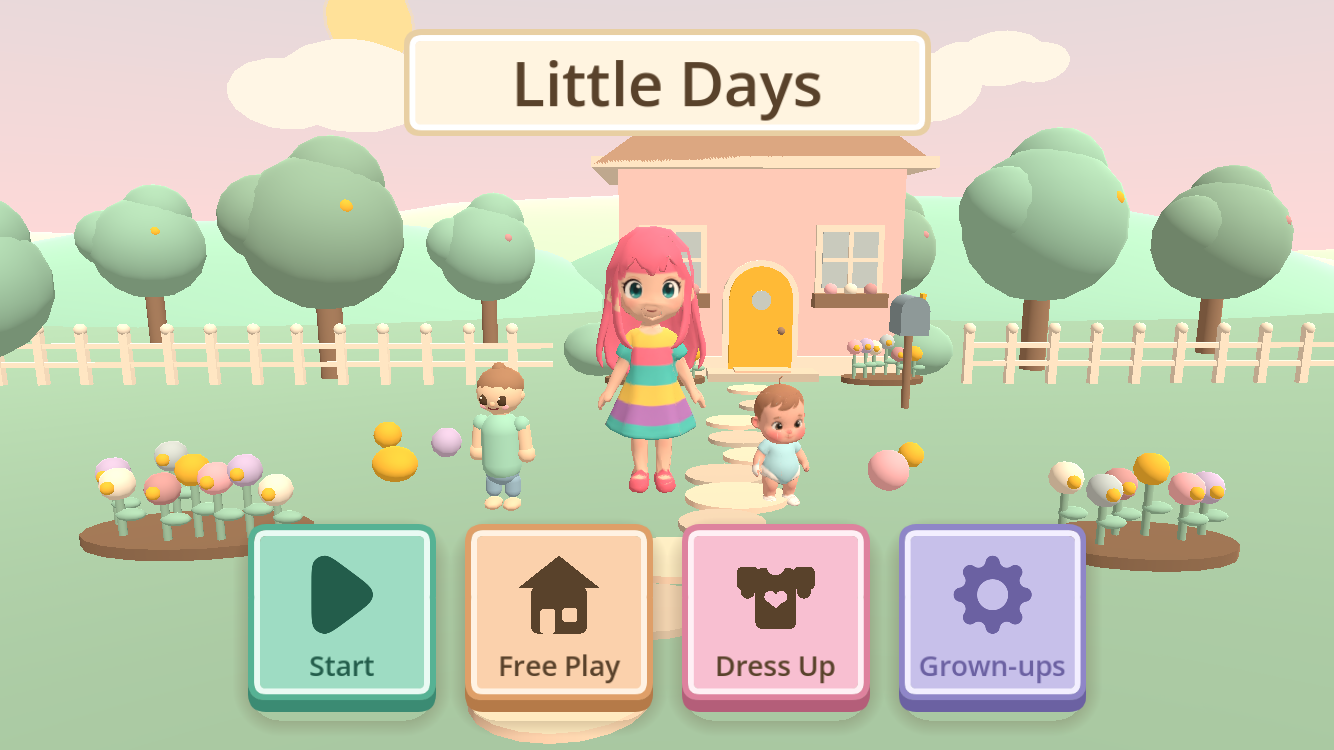
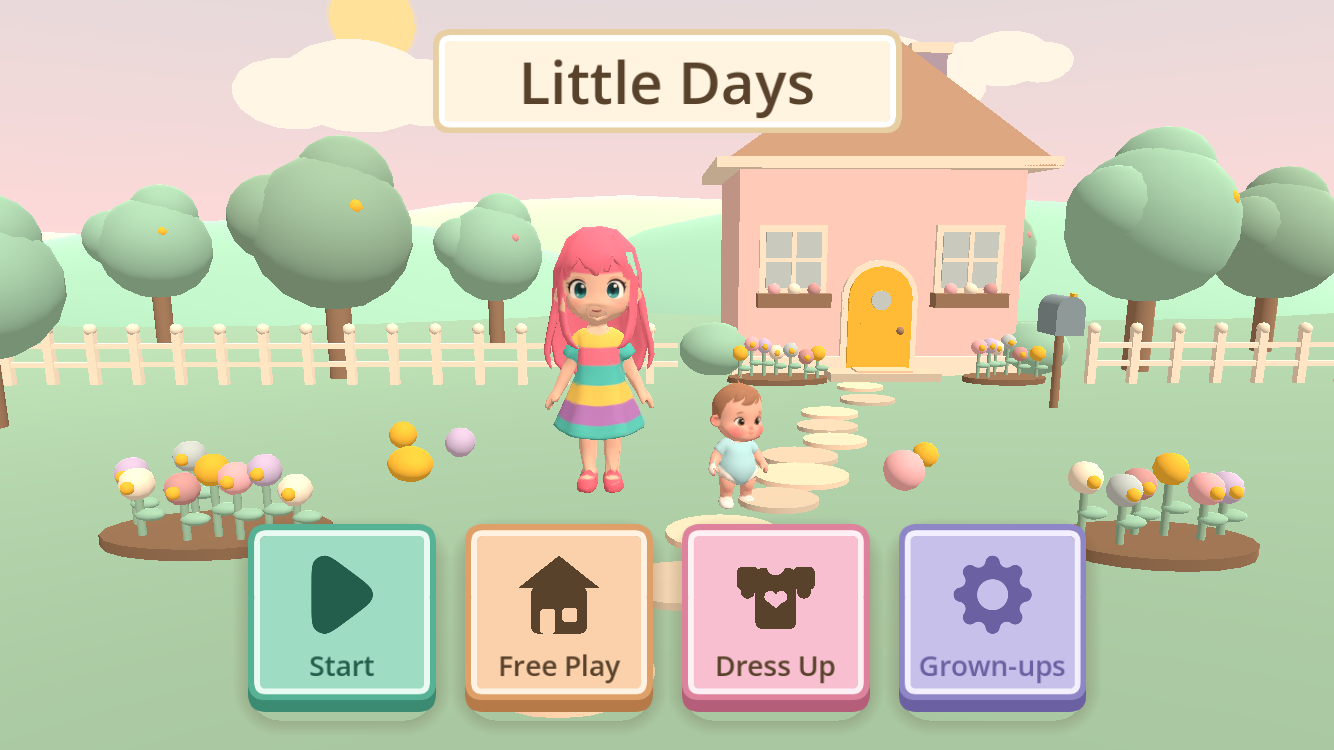
feat(menu): the title screen is Aliz and Bunny, and only them
The procedural toddler_view stand-in is removed from main.tscn: next to the
two real characters it read as a third child nobody had met. Aliz stands a
little left of centre with Bunny at her right side; the cottage moves right
so the front door shows past her shoulder and the roof peak clears the
title panel, which is narrower (640 px). Chimney raised above the ridge.

test_buddy_avatar.gd section 8 is rewritten deliberately: it now pins
that toddler_view.gd is untouched and still the house's toddler, and that
main.tscn holds exactly the PinkGirlBuddy caregiver and the BabyLittleBuddy
child through their wrappers, with no toddler_view node. A product decision
recorded in the test, not a weakening. Suite: 123 cases, green. Evidence
re-taken at 1334x750 and 2340x1080.

diff --git a/docs/MENU_WOW_PASS.md b/docs/MENU_WOW_PASS.md
@@ -14,12 +14,17 @@ blue sky and did not feel like a children's game world.
   picket fence; soft rolling hills; a gradient pastel sky dome; four clouds;
   a sun; toy balls, a duck and a mailbox. Every colour is a `palette.gd`
   token or one of its two derivations (`light()` / `deep()`); no black, no red.
-- **The real cast**: Aliz (`PinkGirlBuddy.tscn`) at the centre, **Bunny**
-  (`BabyLittleBuddy.tscn`, the same wrapper the house uses; added in
-  `main.gd::_add_bunny()`, playing his `idle`) at her right, Little Buddy
-  (`toddler_view.gd`, still pinned by `test_buddy_avatar.gd`) at her left. New
-  framing `CAMERA_POSITION_WITH_BUDDY` / `CAMERA_TARGET_WITH_BUDDY`: 10° pitch,
-  feet above the button row, heads below the title, sun on their faces.
+- **The real pair, and only the pair**: Aliz (`PinkGirlBuddy.tscn`) a little
+  left of centre, **Bunny** (`BabyLittleBuddy.tscn`, the same wrapper the house
+  uses; added in `main.gd::_add_bunny()`, playing his `idle`) at her right
+  side. The procedural `toddler_view` stand-in is gone from `main.tscn` (owner
+  review: it read as a third child nobody had met); the house still uses it.
+  `test_buddy_avatar.gd` section 8 was rewritten to pin exactly this -- a
+  product decision recorded in the test, not a weakening. Framing
+  `CAMERA_POSITION_WITH_BUDDY` / `CAMERA_TARGET_WITH_BUDDY`: 10° pitch, feet
+  above the button row, heads below the title, sun on their faces. The house
+  sits right of centre so the door shows past Aliz's shoulder and the roof peak
+  clears the (now 640 px wide) title panel.
 - **Four buttons in one row** (`main.tscn`): Start/Continue (mint, play glyph),
   Free Play (peach, house), Dress Up (pink, new shirt-with-heart
   `dress_glyph.gd`), Grown-ups (lavender, gear). 256×256 each, 40 px gaps,
@@ -38,7 +43,7 @@ device; PNG size asserted):
 
 | Shot | Size | Verdict |
 | --- | --- | --- |
-| `docs/shots/menu_wow_ipad.png` | 1334×750 | PASS — house, garden, all three characters clear of the buttons |
+| `docs/shots/menu_wow_ipad.png` | 1334×750 | PASS — house with roof peak, garden, Aliz + Bunny clear of the buttons |
 | `docs/shots/menu_wow_iphone.png` | 2340×1080 | PASS — same, wider garden, buttons inside the safe area |
 | `docs/shots/menu_wow_pressed.png` | 1334×750 | PASS — Start held down, visibly squished |
 
@@ -52,10 +57,5 @@ device; PNG size asserted):
 
 ## Known limits
 
-- The title panel hides the roof peak and chimney; the house reads fine
-  without them.
+- The chimney is on the far roof slope and barely shows from the path.
 - Aliz has no idle clip (only walk/run ship), so she stands still; Bunny idles.
-- Little Buddy (procedural toddler) stays on screen because
-  `test_buddy_avatar.gd::_test_little_buddy_is_untouched` pins him in
-  `main.tscn`; dropping him to a two-character menu is a one-line change in
-  `main.tscn` plus that test.
